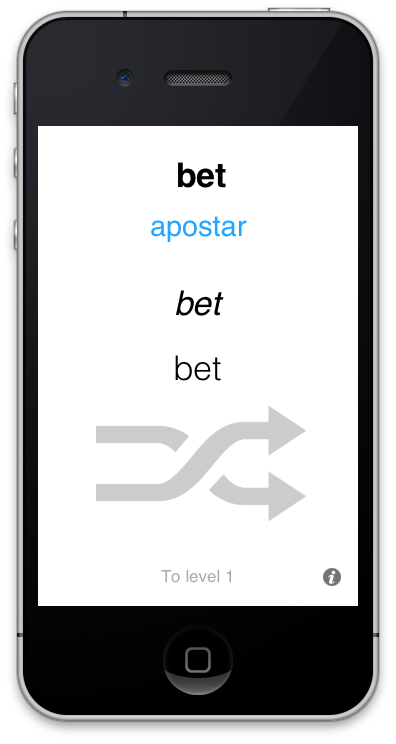
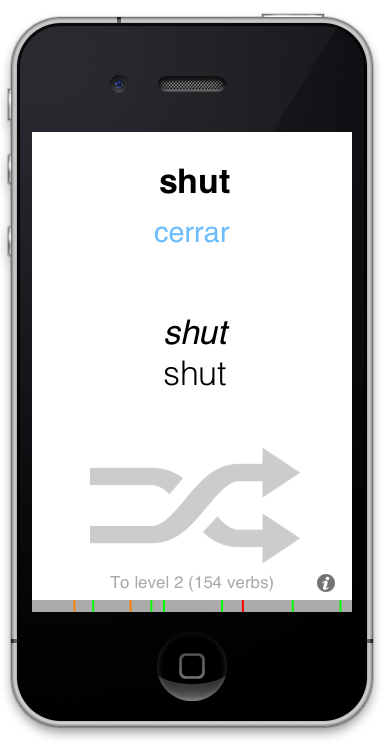
v0.7 experimental version. New Visual Map feature
explain by mean of colours the difficulty user in which the user moves
from one word to another based in time difference

diff --git a/VerbsVisualMapView.m b/VerbsVisualMapView.m
@@ -1,0 +1,103 @@
+//
+//  VerbsVisualMapView.m
+//  IrregularVerbs
+//
+//  Created by Oswaldo Rubio on 02/01/13.
+//  Copyright (c) 2013 Oswaldo Rubio. All rights reserved.
+//
+
+#import "VerbsVisualMapView.h"
+
+
+
+@implementation VerbsVisualMapView
+
+@synthesize numElements, elements;
+
+- (id)initWithFrame:(CGRect)frame
+{
+    self = [super initWithFrame:frame];
+    if (self) {
+        // Initialization code
+        numElements = 0;
+    }
+    return self;
+}
+
+-(void) setNumElements:(int)ne{
+    
+    numElements = ne;
+    elements =  [NSMutableArray arrayWithCapacity:numElements];
+    [self clearElements];
+    [self setNeedsDisplay];
+}
+-(void)clearElements{
+    
+    [elements removeAllObjects];
+    for (int i=0;i< numElements;i++){
+         [elements addObject:[NSNumber numberWithInt:0]];
+    }
+}
+
+-(void)markElement:(int)el  seconds:(double) sec{
+    if(el< [elements count])
+    {
+        
+        NSLog(@"MArk element %d in Seconds %f", el,sec);
+        
+        elements[el] = [NSNumber numberWithInt:(int)sec+1];
+         
+        
+       
+    }
+    [self setNeedsDisplay];
+    
+}
+// Only override drawRect: if you perform custom drawing.
+// An empty implementation adversely affects performance during animation.
+- (void)drawRect:(CGRect)rect
+{
+    CGContextRef ctx = UIGraphicsGetCurrentContext();
+    
+    CGRect bound = [self bounds];
+    CGRect r1;
+    
+    r1.size.height = 12;
+    r1.origin.x = 0;
+    r1.origin.y = 0;
+    
+ 
+    
+    if(numElements>0)
+    {
+        float size_per_element = bound.size.width / numElements;
+        r1.size.width = size_per_element;
+        for(int i=0;i<numElements;i++){
+            
+            NSNumber *state = elements[i]
+            ;
+            if([state intValue] == 0){
+                [[UIColor lightGrayColor] setFill];
+               
+            }else if ([state intValue] < 3)
+            {
+                [[UIColor greenColor] setFill];
+            }
+            else if ([state intValue] < 5)
+            {
+                [[UIColor orangeColor] setFill];
+            }
+            else  
+            {
+                [[UIColor redColor] setFill];
+            }
+            CGContextAddRect(ctx, r1);
+            CGContextFillPath(ctx);
+            r1.origin.x += size_per_element;
+        }
+    
+    }
+}
+ 
+
+@end

diff --git a/IrregularVerbs/ViewController.m b/IrregularVerbs/ViewController.m
@@ -15,7 +15,7 @@
 
 @implementation ViewController
 
-@synthesize verbs=_verbs;
+@synthesize verbs=_verbs, last_timing_value=_last_timing_value;
 
 #pragma mark - Model Managment
 
@@ -73,7 +73,13 @@
     
     [self setLabelLevelText:setup_level];
     
+    [self setLast_timing_value: CACurrentMediaTime()];
     [self showOtherVerb];
+    
+    //init the VisualMap view
+    [self.visualMap setNumElements:[self.verbs size] ];
+ 
+    
 }
 
 
@@ -94,20 +100,29 @@
 
 #pragma mark - User Interface
 
--(void)setLabelLevelText:(int)level{
+-(void)setLabelLevelText:(int)level {
     
     if(level < 4){
         BOOL includeLowerLevels = [[NSUserDefaults standardUserDefaults] boolForKey:@"includeLowerLevels"];
-        NSString *format = (includeLowerLevels)?@"To level %d":@"Level %d";
-        self.labelLevel.text = [NSString stringWithFormat:format, level];
+        NSString *format = (includeLowerLevels)?@"To level %d (%d verbs)":@"Level %d (%d verbs)";
+        self.labelLevel.text = [NSString stringWithFormat:format, level, [self.verbs size]];
     }
     else{
         self.labelLevel.text = @"All levels";
     }
 }
 - (void)showOtherVerb {
+    double CurrentTime = CACurrentMediaTime();
+    NSLog(@"Current time Diff %f seconds", CurrentTime  - [self last_timing_value]  );
+    double diff_time = CurrentTime - [self last_timing_value]  ;
+    
+    [self setLast_timing_value:CurrentTime];
     
     [self.verbs change];
+    
+    //mark new verb
+    [self.visualMap markElement: [self.verbs currentPos] seconds:diff_time];
+   
     
     self.labelPresent.text = self.verbs.simple;
     self.labelTranslation.text = @"";
@@ -193,10 +208,15 @@
     [self.verbs setRandomOrder:[[NSUserDefaults standardUserDefaults] boolForKey:@"randomOrder"]];
     //change level?
     int setup_level = [[NSUserDefaults standardUserDefaults] integerForKey:@"difficultyLevel"];
+    
     self.verbs.level = setup_level;
+ 
+    
     [self setLabelLevelText:setup_level];
     //and repaint the shuffle indicator
     [self showOtherVerb];
+    //init the VisualMap view
+    [self.visualMap setNumElements:[self.verbs size] ];
     [self animateShuffleIndicator];
     
 }

diff --git a/IrregularVerbs/ViewController.h b/IrregularVerbs/ViewController.h
@@ -9,14 +9,15 @@
 #import <UIKit/UIKit.h>
 #import "IrregularVerb.h"
 #import "PreferencesViewController.h"
-
+#import "VerbsVisualMapView.h"
 @interface ViewController : UIViewController <PreferencesViewControllerDelegate, IrregularVerbDelegate>
 
 //Object Data Model
 @property (nonatomic, strong) IrregularVerb *verbs;
 //current verb (to be deprecated)
 @property int current_Pos;
-
+//used for timimg purposes
+@property double last_timing_value;
 //label outlets
 @property (nonatomic, weak) IBOutlet UILabel *labelPresent;
 @property (nonatomic, weak) IBOutlet UILabel *labelPast;
@@ -25,5 +26,6 @@
 @property (nonatomic, weak) IBOutlet UILabel *labelLevel;
 @property (weak, nonatomic) IBOutlet UIImageView *shuffleIndicator;
 @property (weak, nonatomic) IBOutlet UIActivityIndicatorView *activityIndicator;
+@property (weak, nonatomic) IBOutlet VerbsVisualMapView *visualMap;
 
 @end

diff --git a/VerbsVisualMapView.h b/VerbsVisualMapView.h
@@ -1,0 +1,17 @@
+//
+//  VerbsVisualMapView.h
+//  IrregularVerbs
+//
+//  Created by Oswaldo Rubio on 02/01/13.
+//  Copyright (c) 2013 Oswaldo Rubio. All rights reserved.
+//
+
+#import <UIKit/UIKit.h>
+
+@interface VerbsVisualMapView : UIView
+ 
+@property (nonatomic) int numElements;
+@property (nonatomic) NSMutableArray *elements;
+//@todo state should be a DEFINED CONSTANT VALUE
+-(void)markElement:(int)element seconds:(double) sec;
+@end

diff --git a/IrregularVerbs/IrregularVerb.m b/IrregularVerbs/IrregularVerb.m
@@ -10,7 +10,7 @@
 
 @interface IrregularVerb()
 @property (nonatomic, strong) NSArray *verbs;
-@property (nonatomic) NSInteger currentPos;
+
 @end
 
 @implementation IrregularVerb
@@ -193,7 +193,9 @@
         if (self.currentPos>=[self.verbs count]) self.currentPos=0;
     }
 }
-
+-(int) size{
+    return [self.verbs count];
+}
 - (NSString *)simple {
     return self.verbs[self.currentPos][@"simple"];
 }

diff --git a/IrregularVerbs/PreferencesViewController.m b/IrregularVerbs/PreferencesViewController.m
@@ -88,5 +88,9 @@
     [[NSUserDefaults standardUserDefaults] setBool:checked forKey:@"includeLowerLevels"];
     [[NSUserDefaults standardUserDefaults] synchronize];
 }
-
+-(IBAction)showAboutLink:(id)sender
+{
+    NSString *launchUrl= [[NSUserDefaults standardUserDefaults] stringForKey:@"aboutProjectURL"];
+    [[UIApplication sharedApplication] openURL:[NSURL URLWithString: launchUrl]];
+}
 @end

diff --git a/IrregularVerbs/IrregularVerb.h b/IrregularVerbs/IrregularVerb.h
@@ -18,7 +18,7 @@
 @end
 
 @interface IrregularVerb : NSObject
-
+@property (nonatomic) NSInteger currentPos;
 @property (nonatomic) BOOL randomOrder;
 @property (nonatomic) int level;
 @property (nonatomic, readonly) NSString *simple;
@@ -29,5 +29,5 @@
 @property (nonatomic, strong) id<IrregularVerbDelegate> delegate;
 
 - (void)change;
-
+- (int)size;
 @end

diff --git a/IrregularVerbs/AppDelegate.m b/IrregularVerbs/AppDelegate.m
@@ -13,8 +13,11 @@
 - (BOOL)application:(UIApplication *)application didFinishLaunchingWithOptions:(NSDictionary *)launchOptions
 {
     
+ 
+    
     return YES;
 }
+ 
 							
 - (void)applicationWillResignActive:(UIApplication *)application
 {

diff --git a/IrregularVerbs/PreferencesViewController.h b/IrregularVerbs/PreferencesViewController.h
@@ -26,4 +26,5 @@
 - (IBAction)diffycultyLevelChanged:(UISegmentedControl *)sender;
 -(IBAction)sameTimeChanged:(id)sender;
 - (IBAction)lowerLevelsChanged;
+-(IBAction)showAboutLink:(id)sender;
 @end

diff --git a/README.md b/README.md
@@ -24,6 +24,7 @@ You can contact us at:
 * OR - v0.4 panel and shuffle option integration (20/12/2012)
 * RB - v0.5 experimental GAE API use (27/12/2012)
 * OR - v0.6 new sametime option (show solution at same time), new default app settings loading (28/12/2012)
+* OR - v0.7 INESTABLE. explain by mean of colours the difficulty user in which the user moves from one word to another based in time difference (2/1/2013)
 
 ## Screenshot
 ![Screenshot](https://raw.github.com/rbarbera/irregularverbs/master/screenshot.png)
